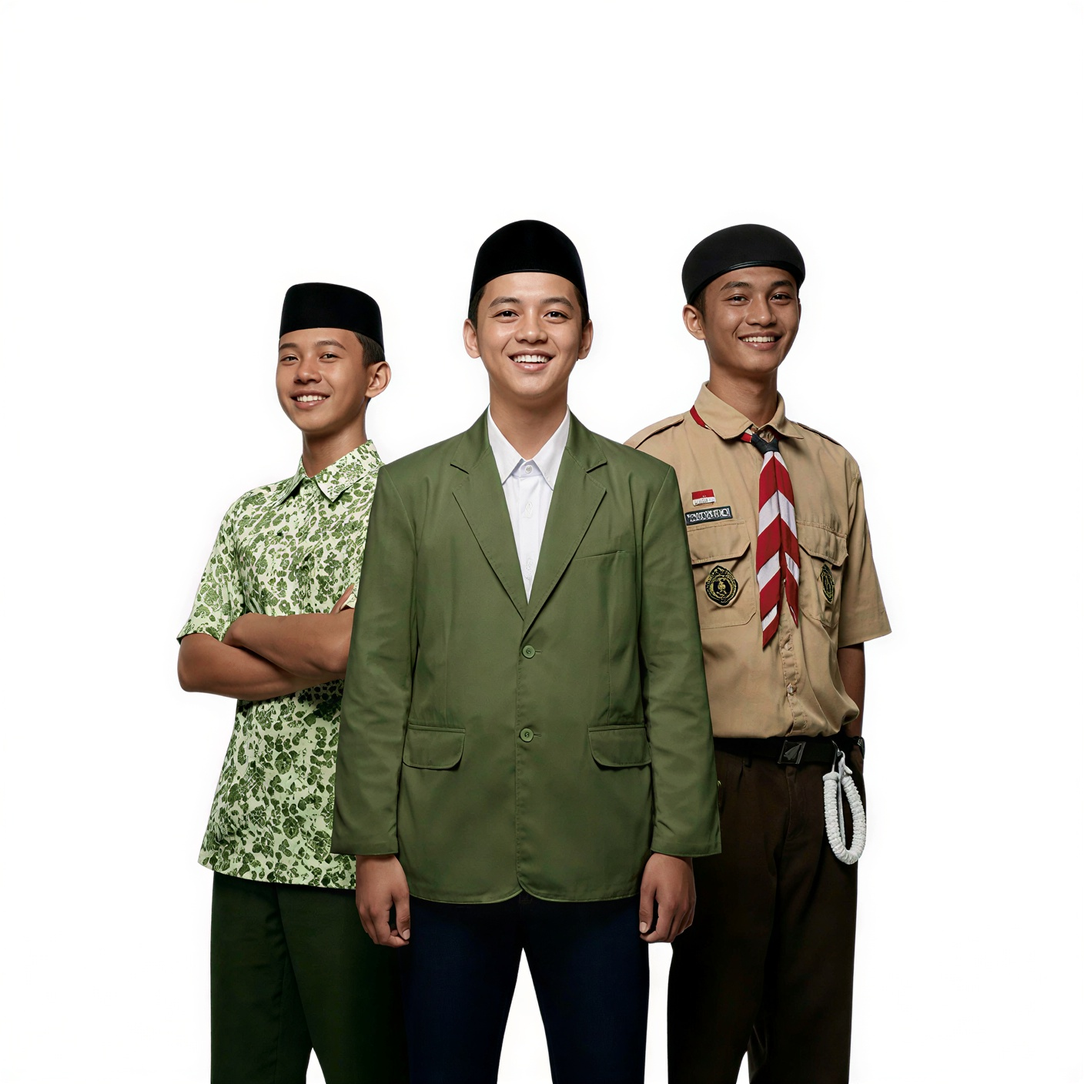
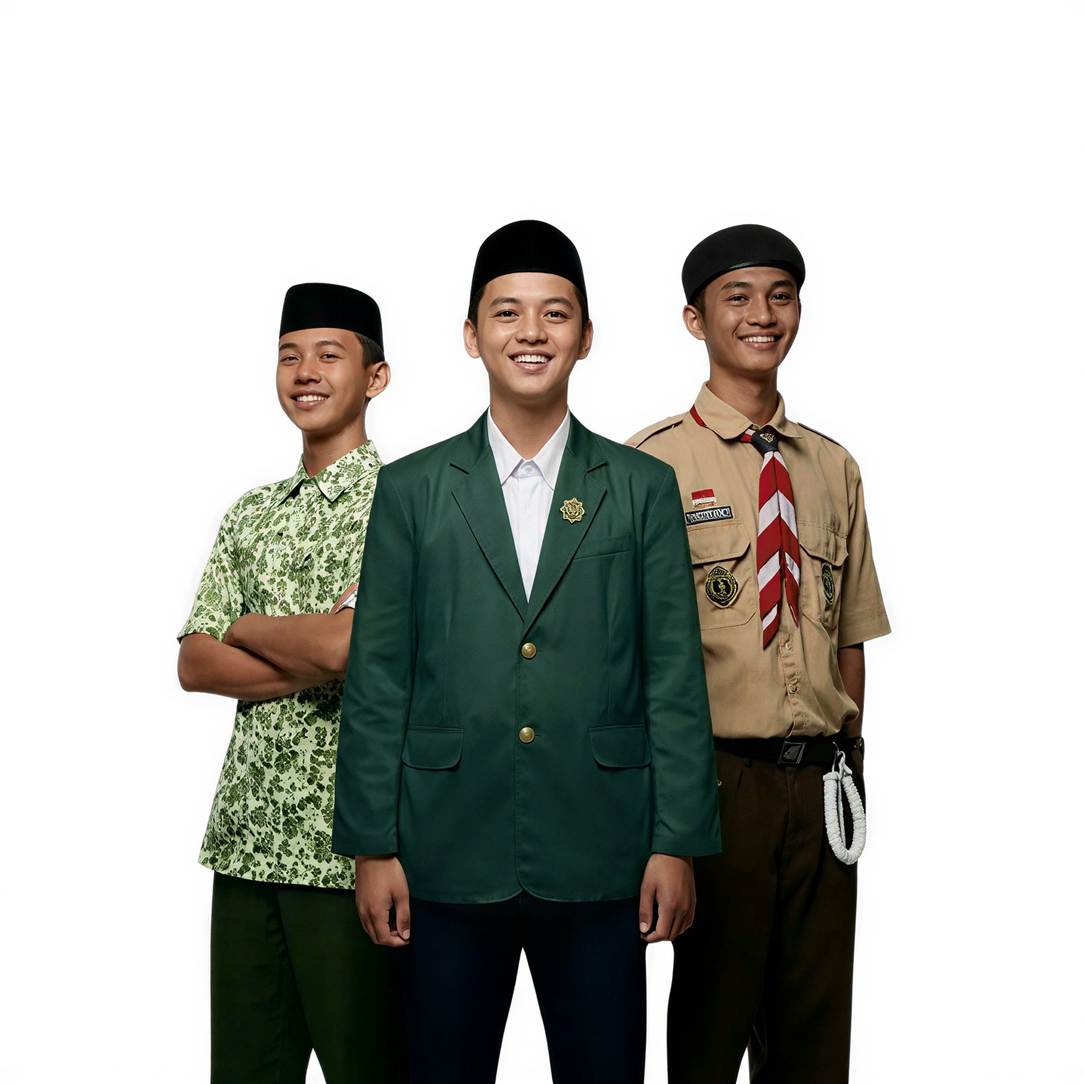
style: optimize admin and pendaftar dashboard mobile responsiveness

diff --git a/src/app/dashboard/admin/page.tsx b/src/app/dashboard/admin/page.tsx
@@ -28,7 +28,7 @@ const StatWidget = ({ label, value, icon: Icon, color, trend, breakdown }: any) 
     <motion.div 
       initial={{ opacity: 0, y: 20 }}
       animate={{ opacity: 1, y: 0 }}
-      className="bg-white p-8 rounded-[2.5rem] border border-teal-100 shadow-premium-sm hover:shadow-premium-lg transition-all group relative overflow-hidden"
+      className="bg-white p-5 sm:p-6 lg:p-8 rounded-[1.5rem] sm:rounded-[2rem] lg:rounded-[2.5rem] border border-teal-100 shadow-premium-sm hover:shadow-premium-lg transition-all group relative overflow-hidden"
     >
       <div className="absolute top-0 right-0 w-32 h-32 bg-teal-50 rounded-full blur-3xl -translate-y-1/2 translate-x-1/2 group-hover:bg-sand-100 transition-colors duration-500" />
       
@@ -45,10 +45,10 @@ const StatWidget = ({ label, value, icon: Icon, color, trend, breakdown }: any) 
           )}
         </div>
         
-        <div className="mb-8">
-          <p className="text-[11px] font-black text-teal-500 uppercase tracking-[0.25em] mb-2">{label}</p>
+        <div className="mb-6 lg:mb-8">
+          <p className="text-[10px] sm:text-[11px] font-black text-teal-500 uppercase tracking-[0.25em] mb-2">{label}</p>
           <div className="flex items-baseline gap-2">
-            <h3 className="text-5xl font-black text-teal-950 tracking-tighter italic">{value}</h3>
+            <h3 className="text-3xl sm:text-4xl lg:text-5xl font-black text-teal-950 tracking-tighter italic">{value}</h3>
             <span className="text-xs font-bold text-teal-400">Orang</span>
           </div>
         </div>
@@ -133,57 +133,57 @@ export default function AdminDashboardPage() {
   );
 
   return (
-    <div className="max-w-[1400px] mx-auto space-y-8 pb-20">
+    <div className="max-w-[1400px] mx-auto space-y-6 sm:space-y-8 pb-20 px-1">
       {/* HEADER */}
-      <div className="flex items-center justify-between">
+      <div className="flex flex-col sm:flex-row sm:items-center justify-between gap-4">
         <div>
-          <h1 className="text-3xl font-black text-teal-950 tracking-tight italic">Dasbor Admin Al Fath</h1>
-          <p className="text-sm text-teal-600 font-medium mt-1">Pantau perkembangan pendaftaran santri secara langsung.</p>
+          <h1 className="text-2xl sm:text-3xl font-black text-teal-950 tracking-tight italic">Dasbor Admin Al Fath</h1>
+          <p className="text-xs sm:text-sm text-teal-600 font-medium mt-1">Pantau perkembangan pendaftaran santri secara langsung.</p>
         </div>
-        <button onClick={fetchStats} className="p-3 bg-white border border-teal-100 rounded-2xl text-teal-600 hover:text-teal-600 transition-all shadow-premium-sm">
+        <button onClick={fetchStats} className="p-3 bg-white border border-teal-100 rounded-2xl text-teal-600 hover:text-teal-600 transition-all shadow-premium-sm self-start sm:self-auto">
           <RefreshCw className={`w-5 h-5 ${loading ? "animate-spin" : ""}`} />
         </button>
       </div>
 
       {/* HERO SECTION */}
-      <div className="bg-teal-900 rounded-[3rem] p-12 text-white relative overflow-hidden shadow-2xl border border-white/5">
+      <div className="bg-teal-900 rounded-[2rem] sm:rounded-[2.5rem] lg:rounded-[3rem] p-6 sm:p-8 lg:p-12 text-white relative overflow-hidden shadow-2xl border border-white/5">
         <div className="absolute top-0 right-0 w-96 h-96 bg-teal-500/10 rounded-full blur-[100px] -translate-y-1/2 translate-x-1/2" />
-        <div className="relative z-10 flex flex-col lg:flex-row items-center justify-between gap-12">
-          <div className="max-w-xl">
-            <div className="inline-flex items-center gap-2 px-4 py-1.5 rounded-full bg-white/10 text-[10px] font-black uppercase tracking-widest mb-8 border border-white/10">
+        <div className="relative z-10 flex flex-col lg:flex-row items-center justify-between gap-8 lg:gap-12">
+          <div className="max-w-xl w-full">
+            <div className="inline-flex items-center gap-2 px-4 py-1.5 rounded-full bg-white/10 text-[10px] font-black uppercase tracking-widest mb-6 lg:mb-8 border border-white/10">
               <Activity className="w-4 h-4 text-teal-300" />
               <span>Sistem Siap Saji: Live Demo</span>
             </div>
-            <h2 className="text-6xl font-black mb-6 tracking-tighter leading-tight italic text-white">
+            <h2 className="text-3xl sm:text-4xl lg:text-6xl font-black mb-4 sm:mb-6 tracking-tighter leading-tight italic text-white">
               Pantau <span className="text-teal-300">Pendaftaran</span>
             </h2>
-            <div className="flex items-center gap-12 mt-12">
+            <div className="flex items-center gap-8 sm:gap-12 mt-8 lg:mt-12">
               <div>
-                <span className="text-5xl font-black text-white italic">{stats.total_pendaftar}</span>
-                <p className="text-[11px] font-black text-teal-200 uppercase tracking-widest mt-2">Pendaftar</p>
+                <span className="text-3xl sm:text-5xl font-black text-white italic">{stats.total_pendaftar}</span>
+                <p className="text-[10px] sm:text-[11px] font-black text-teal-200 uppercase tracking-widest mt-2">Pendaftar</p>
               </div>
-              <div className="w-px h-16 bg-white/20" />
+              <div className="w-px h-12 sm:h-16 bg-white/20" />
               <div>
-                <span className="text-5xl font-black text-teal-300 italic">{stats.sudah_bayar}</span>
-                <p className="text-[11px] font-black text-teal-200 uppercase tracking-widest mt-2">Tervalidasi</p>
+                <span className="text-3xl sm:text-5xl font-black text-teal-300 italic">{stats.sudah_bayar}</span>
+                <p className="text-[10px] sm:text-[11px] font-black text-teal-200 uppercase tracking-widest mt-2">Tervalidasi</p>
               </div>
             </div>
           </div>
-          <div className="grid grid-cols-2 gap-6 w-full lg:w-auto">
-             <div className="bg-white/5 backdrop-blur-md p-8 rounded-[2.5rem] border border-white/10 flex flex-col items-center">
-                <p className="text-[10px] font-black text-teal-200 uppercase tracking-widest mb-4">Lulus Seleksi</p>
-                <p className="text-4xl font-black text-emerald-400 italic">{stats.diterima}</p>
+          <div className="grid grid-cols-2 gap-4 sm:gap-6 w-full lg:w-auto">
+             <div className="bg-white/5 backdrop-blur-md p-4 sm:p-6 lg:p-8 rounded-[1.5rem] sm:rounded-[2rem] border border-white/10 flex flex-col items-center">
+                <p className="text-[9px] sm:text-[10px] font-black text-teal-200 uppercase tracking-widest mb-2 sm:mb-4 text-center">Lulus Seleksi</p>
+                <p className="text-2xl sm:text-4xl font-black text-emerald-400 italic">{stats.diterima}</p>
              </div>
-             <div className="bg-white/5 backdrop-blur-md p-8 rounded-[2.5rem] border border-white/10 flex flex-col items-center">
-                <p className="text-[10px] font-black text-teal-200 uppercase tracking-widest mb-4">Daftar Ulang</p>
-                <p className="text-4xl font-black text-sand-300 italic">{stats.daftar_ulang}</p>
+             <div className="bg-white/5 backdrop-blur-md p-4 sm:p-6 lg:p-8 rounded-[1.5rem] sm:rounded-[2rem] border border-white/10 flex flex-col items-center">
+                <p className="text-[9px] sm:text-[10px] font-black text-teal-200 uppercase tracking-widest mb-2 sm:mb-4 text-center">Daftar Ulang</p>
+                <p className="text-2xl sm:text-4xl font-black text-sand-300 italic">{stats.daftar_ulang}</p>
              </div>
           </div>
         </div>
       </div>
 
       {/* STATS GRID */}
-      <div className="grid grid-cols-1 md:grid-cols-2 lg:grid-cols-3 gap-8">
+      <div className="grid grid-cols-1 sm:grid-cols-2 lg:grid-cols-3 gap-4 sm:gap-6 lg:gap-8">
         {isAdminSuper && (<>
           <StatWidget label="Total Pendaftar" value={stats.total_pendaftar} icon={Users} color="blue" trend="+5% minggu ini" breakdown={getBreakdown("total")} />
           <StatWidget label="Berkas Lengkap" value={stats.berkas_lengkap} icon={ClipboardCheck} color="purple" breakdown={getBreakdown("berkas")} />
@@ -212,36 +212,36 @@ export default function AdminDashboardPage() {
 
       {/* SUMMARY INSIGHTS - Hanya untuk Admin Operasional */}
       {!isAdminSuper && (
-        <div className="grid grid-cols-1 md:grid-cols-2 gap-8">
+        <div className="grid grid-cols-1 md:grid-cols-2 gap-4 sm:gap-6 lg:gap-8">
           {/* Statistik card — bg teal-800 (valid & dark enough for white text) */}
-        <div className="bg-teal-800 rounded-[2.5rem] p-10 text-white relative overflow-hidden group">
+        <div className="bg-teal-800 rounded-[1.5rem] sm:rounded-[2rem] lg:rounded-[2.5rem] p-5 sm:p-8 lg:p-10 text-white relative overflow-hidden group">
           <div className="absolute top-0 right-0 p-8 opacity-5 group-hover:rotate-12 transition-transform duration-700">
             <TrendingUp className="w-48 h-48" />
           </div>
           <div className="relative z-10">
-            <h3 className="text-2xl font-black mb-8 tracking-tight flex items-center gap-3 italic text-white">
+            <h3 className="text-xl sm:text-2xl font-black mb-6 sm:mb-8 tracking-tight flex items-center gap-3 italic text-white">
               <div className="w-2 h-8 bg-emerald-400 rounded-full" />
               Statistik Pendaftaran
             </h3>
-            <div className="grid grid-cols-2 gap-8">
-              <div className="space-y-8">
+            <div className="grid grid-cols-2 gap-4 sm:gap-8">
+              <div className="space-y-6 sm:space-y-8">
                 <div>
                   <p className="text-[10px] font-black text-teal-200 uppercase tracking-widest mb-2">Total Lunas</p>
-                  <p className="text-4xl font-black text-white italic">{stats.sudah_bayar}</p>
+                  <p className="text-2xl sm:text-4xl font-black text-white italic">{stats.sudah_bayar}</p>
                 </div>
                 <div>
                   <p className="text-[10px] font-black text-teal-200 uppercase tracking-widest mb-2">Data Komplit</p>
-                  <p className="text-4xl font-black text-sand-300 italic">{stats.sudah_isi_data}</p>
+                  <p className="text-2xl sm:text-4xl font-black text-sand-300 italic">{stats.sudah_isi_data}</p>
                 </div>
               </div>
-              <div className="space-y-8 pl-10 border-l border-white/20">
+              <div className="space-y-6 sm:space-y-8 pl-4 sm:pl-10 border-l border-white/20">
                 <div>
                   <p className="text-[10px] font-black text-teal-200 uppercase tracking-widest mb-2">Antrean Aktif</p>
-                  <p className="text-4xl font-black text-amber-300 italic">{stats.waiting_payment + stats.waiting_docs}</p>
+                  <p className="text-2xl sm:text-4xl font-black text-amber-300 italic">{stats.waiting_payment + stats.waiting_docs}</p>
                 </div>
                 <div>
                   <p className="text-[10px] font-black text-teal-200 uppercase tracking-widest mb-2">Tingkat Kelulusan</p>
-                  <p className="text-4xl font-black text-emerald-400 italic">
+                  <p className="text-2xl sm:text-4xl font-black text-emerald-400 italic">
                     {stats.total_pendaftar > 0 ? Math.round((stats.diterima / stats.total_pendaftar) * 100) : 0}%
                   </p>
                 </div>
@@ -249,17 +249,17 @@ export default function AdminDashboardPage() {
             </div>
           </div>
         </div>
-
-        <div className="bg-white rounded-[2.5rem] border border-sand-100 p-10 shadow-premium-sm relative overflow-hidden group">
+ 
+        <div className="bg-white rounded-[1.5rem] sm:rounded-[2rem] lg:rounded-[2.5rem] border border-sand-100 p-5 sm:p-8 lg:p-10 shadow-premium-sm relative overflow-hidden group">
           <div className="relative z-10">
-            <h3 className="text-2xl font-black text-ink-900 mb-8 tracking-tight flex items-center gap-3 italic">
+            <h3 className="text-xl sm:text-2xl font-black text-ink-900 mb-6 sm:mb-8 tracking-tight flex items-center gap-3 italic">
               <div className="w-2 h-8 bg-teal-600 rounded-full" />
               Aksi Cepat
             </h3>
             <div className="space-y-4">
-              <div className="flex items-center justify-between p-6 bg-sand-50 rounded-3xl border border-sand-100 hover:border-teal-200 transition-all cursor-default group/item">
-                <div className="flex items-center gap-5">
-                  <div className="w-12 h-12 rounded-2xl bg-white shadow-sm flex items-center justify-center text-teal-600 transition-transform group-hover/item:scale-110">
+              <div className="flex flex-col sm:flex-row sm:items-center justify-between p-4 sm:p-6 bg-sand-50 rounded-2xl sm:rounded-3xl border border-sand-100 hover:border-teal-200 transition-all cursor-default group/item gap-4">
+                <div className="flex items-center gap-4 sm:gap-5">
+                  <div className="w-12 h-12 rounded-2xl bg-white shadow-sm flex items-center justify-center text-teal-600 transition-transform group-hover/item:scale-110 shrink-0">
                     <Users className="w-6 h-6" />
                   </div>
                   <div>
@@ -267,15 +267,15 @@ export default function AdminDashboardPage() {
                     <p className="text-[11px] text-ink-400 font-bold">Verifikasi berkas santri baru</p>
                   </div>
                 </div>
-                <div className="flex items-center gap-3">
-                  <span className="text-2xl font-black text-ink-900 italic">{stats.waiting_docs}</span>
-                  <ChevronRight className="w-5 h-5 text-ink-300" />
+                <div className="flex items-center justify-between sm:justify-end gap-3 w-full sm:w-auto border-t sm:border-0 pt-3 sm:pt-0 border-sand-200/60">
+                  <span className="text-xl sm:text-2xl font-black text-ink-900 italic">{stats.waiting_docs}</span>
+                  <ChevronRight className="w-5 h-5 text-ink-300 hidden sm:block" />
                 </div>
               </div>
-
-              <div className="flex items-center justify-between p-6 bg-sand-50 rounded-3xl border border-sand-100 hover:border-emerald-200 transition-all cursor-default group/item">
-                <div className="flex items-center gap-5">
-                  <div className="w-12 h-12 rounded-2xl bg-white shadow-sm flex items-center justify-center text-emerald-600 transition-transform group-hover/item:scale-110">
+ 
+              <div className="flex flex-col sm:flex-row sm:items-center justify-between p-4 sm:p-6 bg-sand-50 rounded-2xl sm:rounded-3xl border border-sand-100 hover:border-emerald-200 transition-all cursor-default group/item gap-4">
+                <div className="flex items-center gap-4 sm:gap-5">
+                  <div className="w-12 h-12 rounded-2xl bg-white shadow-sm flex items-center justify-center text-emerald-600 transition-transform group-hover/item:scale-110 shrink-0">
                     <Wallet className="w-6 h-6" />
                   </div>
                   <div>
@@ -283,15 +283,15 @@ export default function AdminDashboardPage() {
                     <p className="text-[11px] text-ink-400 font-bold">Konfirmasi bukti transfer</p>
                   </div>
                 </div>
-                <div className="flex items-center gap-3">
-                  <span className="text-2xl font-black text-ink-900 italic">{stats.waiting_payment}</span>
-                  <ChevronRight className="w-5 h-5 text-ink-300" />
+                <div className="flex items-center justify-between sm:justify-end gap-3 w-full sm:w-auto border-t sm:border-0 pt-3 sm:pt-0 border-sand-200/60">
+                  <span className="text-xl sm:text-2xl font-black text-ink-900 italic">{stats.waiting_payment}</span>
+                  <ChevronRight className="w-5 h-5 text-ink-300 hidden sm:block" />
                 </div>
               </div>
             </div>
           </div>
         </div>
-        </div>
+      </div>
       )}
     </div>
   );

diff --git a/src/app/dashboard/pendaftar/page.tsx b/src/app/dashboard/pendaftar/page.tsx
@@ -105,12 +105,12 @@ export default function DashboardPendaftarPage() {
 
 function HeroBanner({ nama, nomorPendaftaran, lastUpdate }: any) {
   return (
-    <div className="relative overflow-hidden rounded-[2.5rem] md:rounded-[3.5rem] bg-linear-to-br from-teal-700 to-teal-900 text-white p-8 md:p-16 shadow-2xl border border-teal-600/50">
+    <div className="relative overflow-hidden rounded-[2rem] sm:rounded-[2.5rem] md:rounded-[3.5rem] bg-linear-to-br from-teal-700 to-teal-900 text-white p-6 sm:p-8 md:p-16 shadow-2xl border border-teal-600/50">
       <div className="absolute top-0 right-0 w-[600px] h-[600px] bg-sand-400/10 rounded-full blur-3xl pointer-events-none -translate-y-1/2 translate-x-1/2" />
-      <div className="relative z-10 flex flex-col lg:flex-row items-start lg:items-center justify-between gap-10">
-        <div className="flex-1 space-y-6">
+      <div className="relative z-10 flex flex-col lg:flex-row items-start lg:items-center justify-between gap-8 lg:gap-10">
+        <div className="flex-1 space-y-4 sm:space-y-6">
           <div className="flex flex-wrap items-center gap-3">
-            <span className="px-4 py-1.5 bg-white/10 backdrop-blur-md rounded-full text-[10px] tracking-[0.2em] font-black uppercase border border-white/20 text-sand-200">
+            <span className="px-4 py-1.5 bg-white/10 backdrop-blur-md rounded-full text-[9px] sm:text-[10px] tracking-[0.2em] font-black uppercase border border-white/20 text-sand-200">
               ACADEMIC EXCELLENCE
             </span>
             <span className="flex items-center gap-2 text-xs font-bold text-teal-100/70">
@@ -123,22 +123,22 @@ function HeroBanner({ nama, nomorPendaftaran, lastUpdate }: any) {
               })}
             </span>
           </div>
-          <h1 className="text-3xl md:text-6xl lg:text-7xl font-black leading-[1.1] font-display tracking-tight text-white italic">
+          <h1 className="text-3xl sm:text-5xl md:text-6xl lg:text-7xl font-black leading-[1.1] font-display tracking-tight text-white italic">
             Welcome, <br />
             <span className="text-sand-400 not-italic uppercase drop-shadow-lg">
               {nama}!
             </span>
           </h1>
-          <p className="text-teal-100 text-lg md:text-xl font-medium max-w-xl opacity-80 leading-relaxed italic border-l-4 border-sand-500/50 pl-6">
+          <p className="text-teal-100 text-base md:text-xl font-medium max-w-xl opacity-80 leading-relaxed italic border-l-4 border-sand-500/50 pl-4 sm:pl-6">
             "Providing a world-class educational foundation for your child's
             future."
           </p>
         </div>
-        <div className="flex-1 lg:flex-none bg-black/20 backdrop-blur-xl px-8 py-6 rounded-[2rem] border border-white/10 text-center">
+        <div className="flex-1 lg:flex-none w-full sm:w-auto bg-black/20 backdrop-blur-xl px-6 sm:px-8 py-5 sm:py-6 rounded-[1.5rem] sm:rounded-[2rem] border border-white/10 text-center">
           <p className="text-[10px] font-black uppercase text-sand-200/60 mb-1 tracking-[0.2em]">
             REGISTRATION ID
           </p>
-          <p className="font-mono text-3xl md:text-4xl font-black text-white tracking-tighter">
+          <p className="font-mono text-2xl sm:text-3xl md:text-4xl font-black text-white tracking-tighter">
             {nomorPendaftaran}
           </p>
         </div>
@@ -149,23 +149,23 @@ function HeroBanner({ nama, nomorPendaftaran, lastUpdate }: any) {
 
 function GuidedActionCard({ nextStep }: any) {
   return (
-    <div className="bg-white rounded-[2.5rem] border-2 border-teal-100 shadow-xl shadow-teal/5 overflow-hidden group">
+    <div className="bg-white rounded-[1.5rem] sm:rounded-[2rem] md:rounded-[2.5rem] border-2 border-teal-100 shadow-xl shadow-teal/5 overflow-hidden group">
       <div className="flex flex-col md:flex-row items-stretch">
-        <div className="bg-sand-400 p-8 md:p-12 flex flex-col items-center justify-center text-teal-950 min-w-[200px]">
-          <div className="w-16 h-16 rounded-2xl bg-white/20 flex items-center justify-center mb-4 group-hover:scale-110 transition-transform">
-            <Target className="w-8 h-8" />
+        <div className="bg-sand-400 p-6 sm:p-8 md:p-12 flex flex-col items-center justify-center text-teal-950 min-w-[200px]">
+          <div className="w-12 h-12 sm:w-16 sm:h-16 rounded-2xl bg-white/20 flex items-center justify-center mb-4 group-hover:scale-110 transition-transform">
+            <Target className="w-6 h-6 sm:w-8 sm:h-8" />
           </div>
           <p className="text-[10px] font-black uppercase tracking-widest opacity-70">
             Step
           </p>
-          <p className="text-3xl font-black">NEXT</p>
+          <p className="text-2xl sm:text-3xl font-black">NEXT</p>
         </div>
-        <div className="flex-1 p-8 md:p-12 space-y-6">
+        <div className="flex-1 p-6 sm:p-8 md:p-12 space-y-4 sm:space-y-6">
           <div>
-            <h2 className="text-2xl md:text-3xl font-black text-teal-950 mb-2">
+            <h2 className="text-xl sm:text-2xl md:text-3xl font-black text-teal-950 mb-2">
               What should I do?
             </h2>
-            <p className="text-ink-600 font-medium text-lg italic">
+            <p className="text-base sm:text-lg text-ink-600 font-medium italic">
               "Please click the button to{" "}
               <span className="text-teal-700 font-black not-italic">
                 {nextStep.action.toLowerCase()}
@@ -176,10 +176,10 @@ function GuidedActionCard({ nextStep }: any) {
           <div className="flex flex-wrap gap-4">
             <Link
               href={nextStep.href}
-              className="px-10 py-5 bg-teal-700 hover:bg-teal-800 text-white rounded-2xl font-black uppercase text-sm shadow-2xl shadow-teal/20 transition-all hover:scale-105 active:scale-95 flex items-center gap-3 group/btn"
+              className="px-6 sm:px-10 py-4 sm:py-5 bg-teal-700 hover:bg-teal-800 text-white rounded-2xl font-black uppercase text-xs sm:text-sm shadow-2xl shadow-teal/20 transition-all hover:scale-105 active:scale-95 flex items-center gap-3 group/btn w-full sm:w-auto justify-center"
             >
               Get Started Now{" "}
-              <ArrowRight className="w-5 h-5 group-hover/btn:translate-x-2 transition-transform" />
+              <ArrowRight className="w-4 h-4 sm:w-5 sm:h-5 group-hover/btn:translate-x-2 transition-transform" />
             </Link>
           </div>
         </div>
@@ -219,21 +219,21 @@ function StatusGrid({ status, statusLabel, pengumuman }: any) {
   ];
 
   return (
-    <div className="grid grid-cols-1 md:grid-cols-3 gap-6">
+    <div className="grid grid-cols-1 sm:grid-cols-2 md:grid-cols-3 gap-4 sm:gap-6">
       {items.map((item, id) => (
         <div
           key={id}
-          className="bg-white p-8 rounded-[2rem] border border-stone-100 shadow-sm hover:shadow-xl transition-all duration-500 group"
+          className="bg-white p-6 sm:p-8 rounded-[1.5rem] sm:rounded-[2rem] border border-stone-100 shadow-sm hover:shadow-xl transition-all duration-500 group"
         >
           <div
-            className={`w-14 h-14 rounded-2xl flex items-center justify-center mb-6 ${item.bg} group-hover:scale-110 transition-transform shadow-inner`}
+            className={`w-12 h-12 sm:w-14 sm:h-14 rounded-2xl flex items-center justify-center mb-4 sm:mb-6 ${item.bg} group-hover:scale-110 transition-transform shadow-inner`}
           >
-            <item.icon className={`w-7 h-7 ${item.color}`} />
+            <item.icon className={`w-6 h-6 sm:w-7 sm:h-7 ${item.color}`} />
           </div>
           <p className="text-[10px] font-black text-stone-400 uppercase tracking-widest mb-1">
             {item.label}
           </p>
-          <p className="text-2xl font-black text-teal-950 mb-2 leading-none">
+          <p className="text-xl sm:text-2xl font-black text-teal-950 mb-2 leading-none">
             {item.val}
           </p>
           <p className="text-xs font-medium text-stone-400 italic">
@@ -247,9 +247,9 @@ function StatusGrid({ status, statusLabel, pengumuman }: any) {
 
 function SupportCenter() {
   return (
-    <div className="bg-teal-950 text-white rounded-[3rem] p-10 md:p-16 relative overflow-hidden group shadow-2xl">
+    <div className="bg-teal-950 text-white rounded-[2rem] sm:rounded-[2.5rem] md:rounded-[3rem] p-6 sm:p-10 md:p-16 relative overflow-hidden group shadow-2xl">
       <div className="absolute top-0 right-0 w-96 h-96 bg-teal-800 rounded-full blur-[100px] opacity-20 -translate-y-1/2 translate-x-1/2" />
-      <div className="relative z-10 flex flex-col lg:flex-row items-center justify-between gap-12 text-center lg:text-left">
+      <div className="relative z-10 flex flex-col lg:flex-row items-center justify-between gap-8 lg:gap-12 text-center lg:text-left">
         <div className="flex-1 space-y-4">
           <div className="inline-flex items-center gap-3 px-4 py-2 bg-white/10 rounded-full border border-white/10">
             <span className="w-2 h-2 rounded-full bg-sand-400 animate-pulse" />
@@ -257,11 +257,11 @@ function SupportCenter() {
               PPDB SUPPORT CENTER
             </span>
           </div>
-          <h3 className="font-black text-3xl md:text-4xl lg:text-5xl font-display leading-tight">
+          <h3 className="font-black text-2xl sm:text-3xl md:text-4xl lg:text-5xl font-display leading-tight">
             Need Help? <br />
             <span className="text-sand-400">Chat with Our Team!</span>
           </h3>
-          <p className="text-teal-200 text-lg md:text-xl font-medium opacity-80 max-w-2xl">
+          <p className="text-teal-200 text-base sm:text-lg md:text-xl font-medium opacity-80 max-w-2xl">
             Don't hesitate to ask. Our team is ready to help you complete the
             registration smoothly.
           </p>
@@ -269,7 +269,7 @@ function SupportCenter() {
         <a
           href="https://wa.me/6281285300800"
           target="_blank"
-          className="px-12 py-5 bg-sand-400 text-teal-950 font-black text-sm uppercase tracking-widest rounded-[1.5rem] hover:bg-sand-300 shadow-xl transition-all hover:scale-105 active:scale-95 text-center"
+          className="px-8 sm:px-12 py-4 sm:py-5 bg-sand-400 text-teal-950 font-black text-xs sm:text-sm uppercase tracking-widest rounded-[1.25rem] sm:rounded-[1.5rem] hover:bg-sand-300 shadow-xl transition-all hover:scale-105 active:scale-95 text-center w-full sm:w-auto"
         >
           Chat on WhatsApp
         </a>
